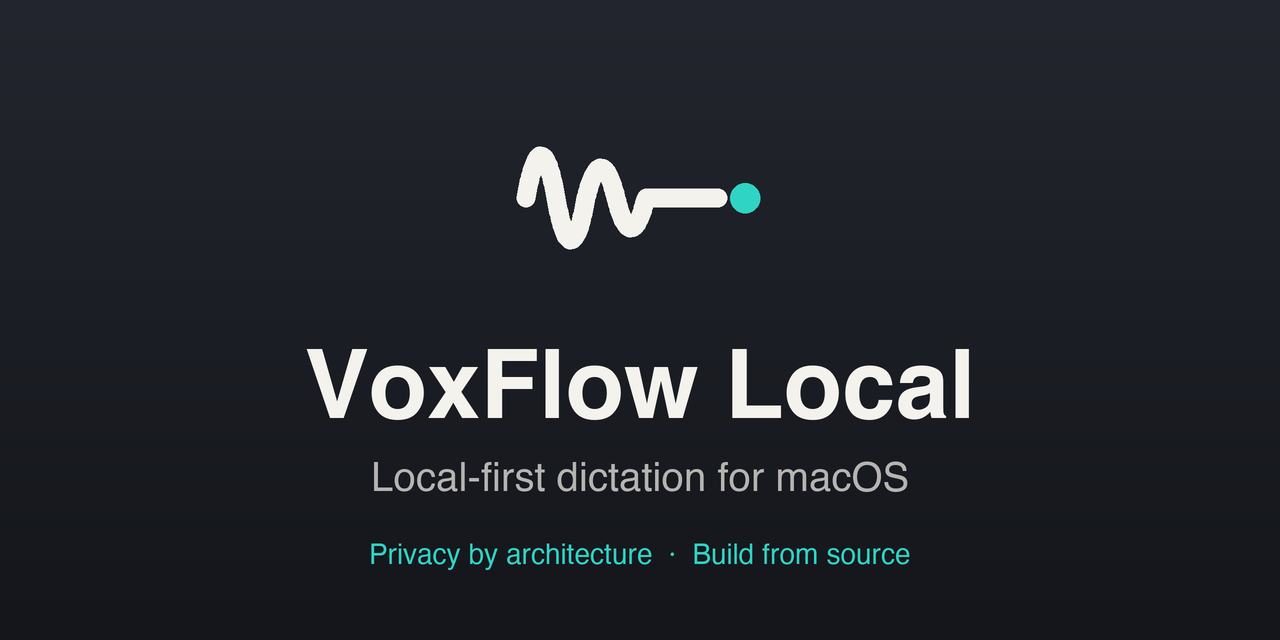
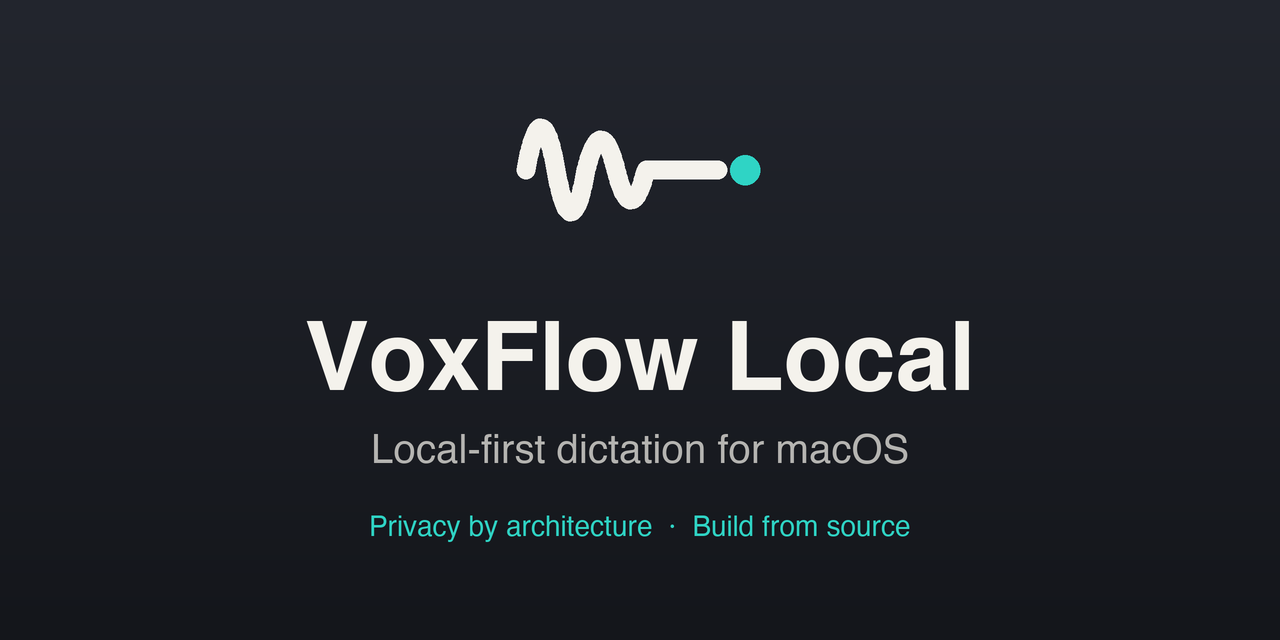
feat(brand): add GitHub social preview card + reproducible generator
1280x640 social card in the Waveline identity (shared mark + palette with
generate_app_icon.py): monoline waveform into baseline, teal cursor dot, flat
ink ground. 66 KB, under GitHub's 1 MB social-card limit.

scripts/generate_social_preview.py regenerates docs/assets/social-preview.png
deterministically. The image is uploaded once in repo Settings -> Social
preview (that toggle is UI-only, not scriptable).

Changed region(s): [[0.2188, 0.5, 0.7812, 0.7812], [0.2812, 0.8125, 0.7188, 0.9062], [0.4062, 0.1875, 0.5938, 0.4062]]

diff --git a/scripts/generate_social_preview.py b/scripts/generate_social_preview.py
@@ -119,17 +119,17 @@ def build_card() -> Image.Image:
 
     # Mark, centered horizontally near the top.
     box = 300 * SS
-    _draw_mark(draw, (w - box) / 2, 48 * SS, box)
+    _draw_mark(draw, (w - box) / 2, 20 * SS, box)
 
     cx = w / 2
     title_font, tf = _load_font(96 * SS, bold=True)
     tag_font, _ = _load_font(40 * SS, bold=False)
     foot_font, _ = _load_font(28 * SS, bold=False)
 
-    draw.text((cx, 392 * SS), "VoxFlow Local", font=title_font, fill=PAPER, anchor="mm")
-    draw.text((cx, 480 * SS), "Local-first dictation for macOS",
+    draw.text((cx, 364 * SS), "VoxFlow Local", font=title_font, fill=PAPER, anchor="mm")
+    draw.text((cx, 452 * SS), "Local-first dictation for macOS",
               font=tag_font, fill=blend(PAPER, INK_BOTTOM, 0.28), anchor="mm")
-    draw.text((cx, 556 * SS), "Privacy by architecture  ·  Build from source",
+    draw.text((cx, 528 * SS), "Privacy by architecture  ·  Build from source",
               font=foot_font, fill=TEAL, anchor="mm")
 
     print(f"font: {tf}")